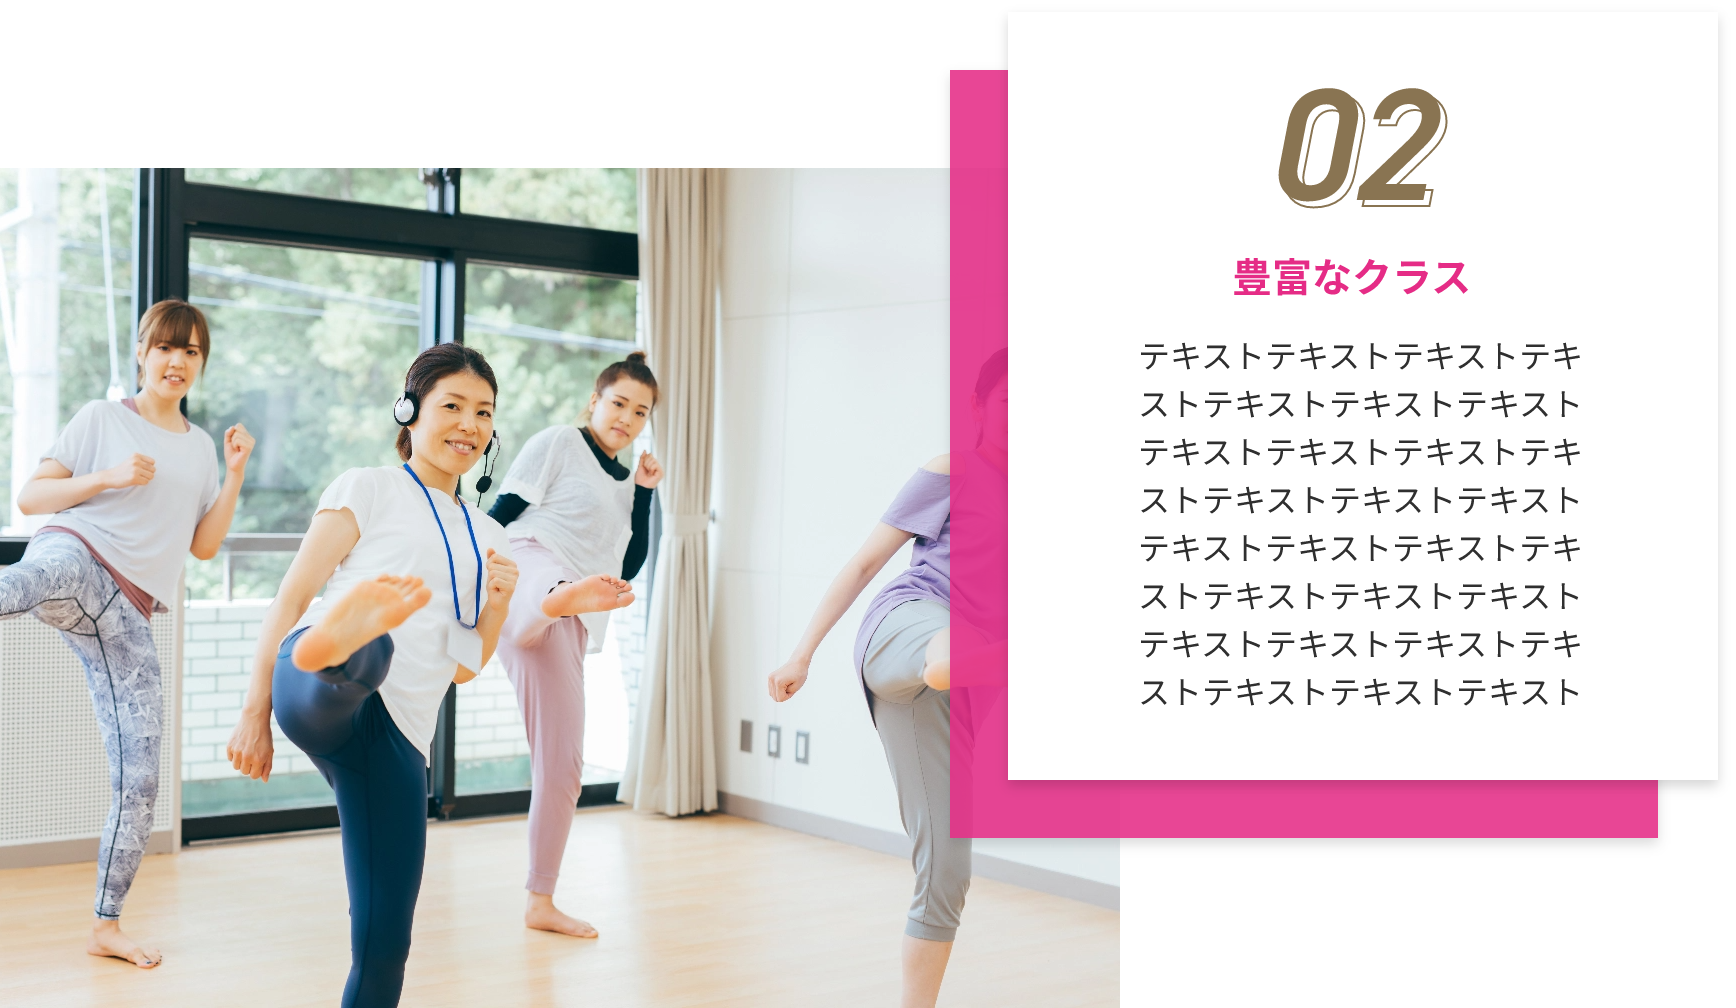
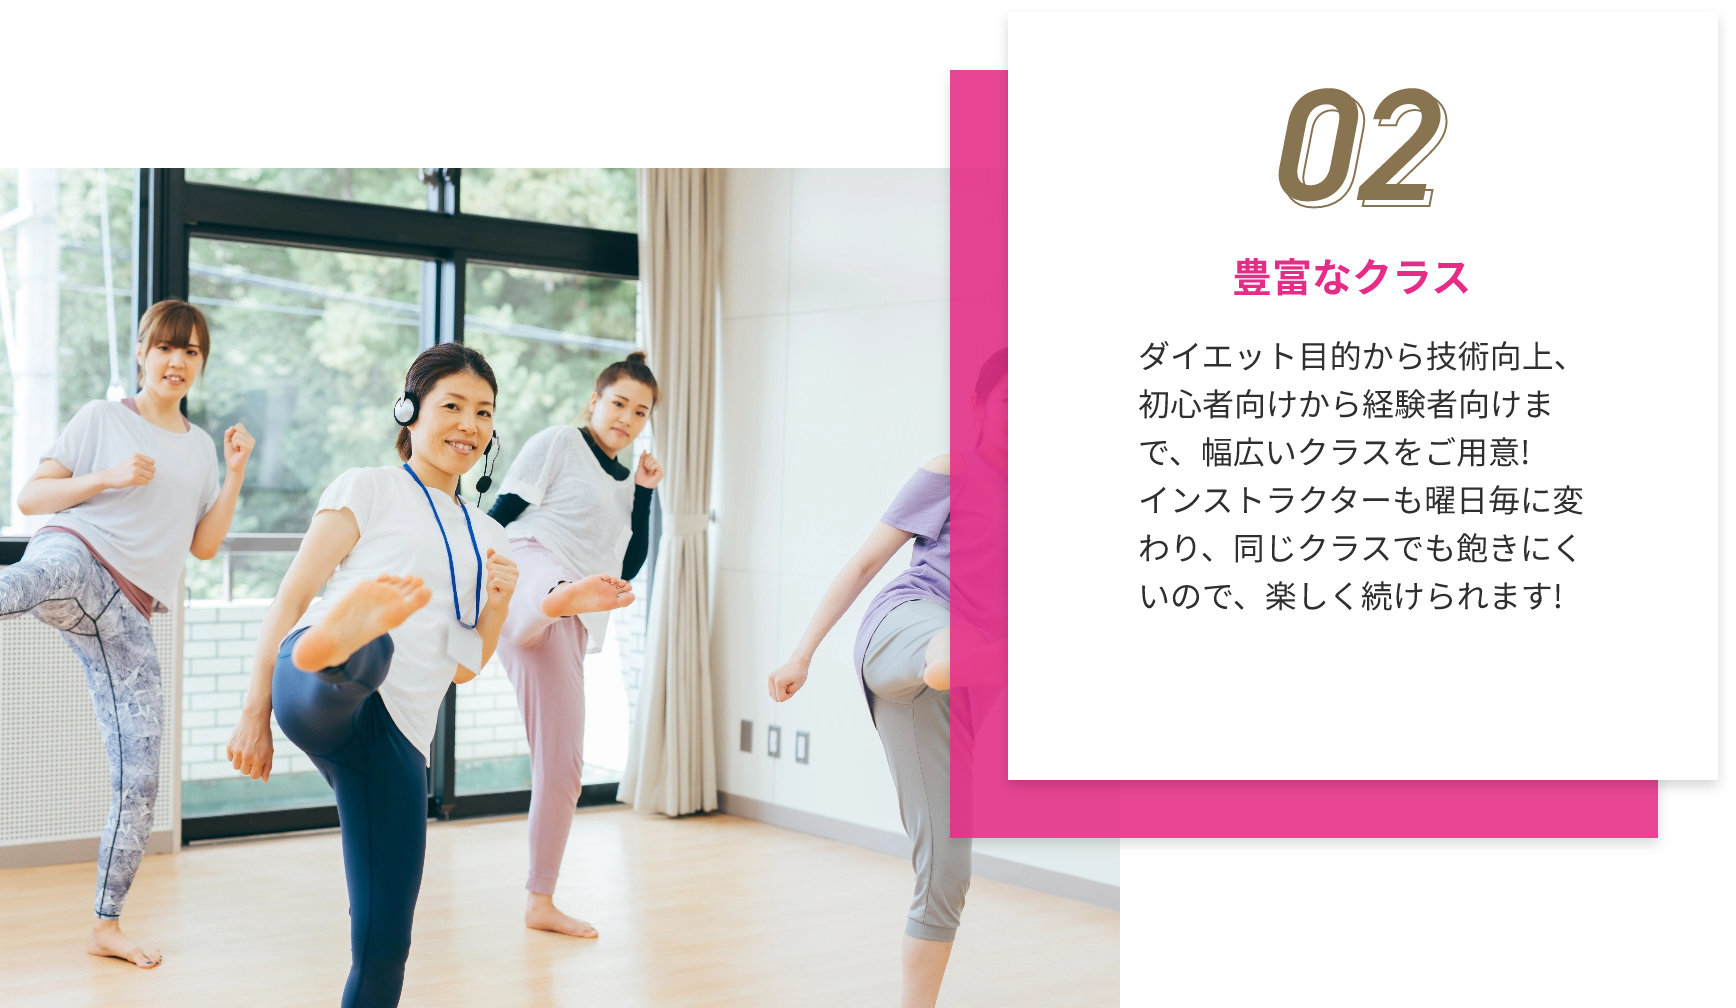
コース、特長の画像差し替え

Changed region(s): [[0.6532, 0.3383, 0.9021, 0.6458], [0.6532, 0.6766, 0.9021, 0.7073]]

diff --git a/css/style.css b/css/style.css
@@ -828,6 +828,14 @@ z-index: 1
   opacity: 1;
 }
 
+.two {
+  background: url('../img/グループ 488.png');
+}
+
+.three {
+  background: url('../img/コンポーネント 3 – 7.png');
+}
+
 .one {
   margin-left: 167px;
 }
